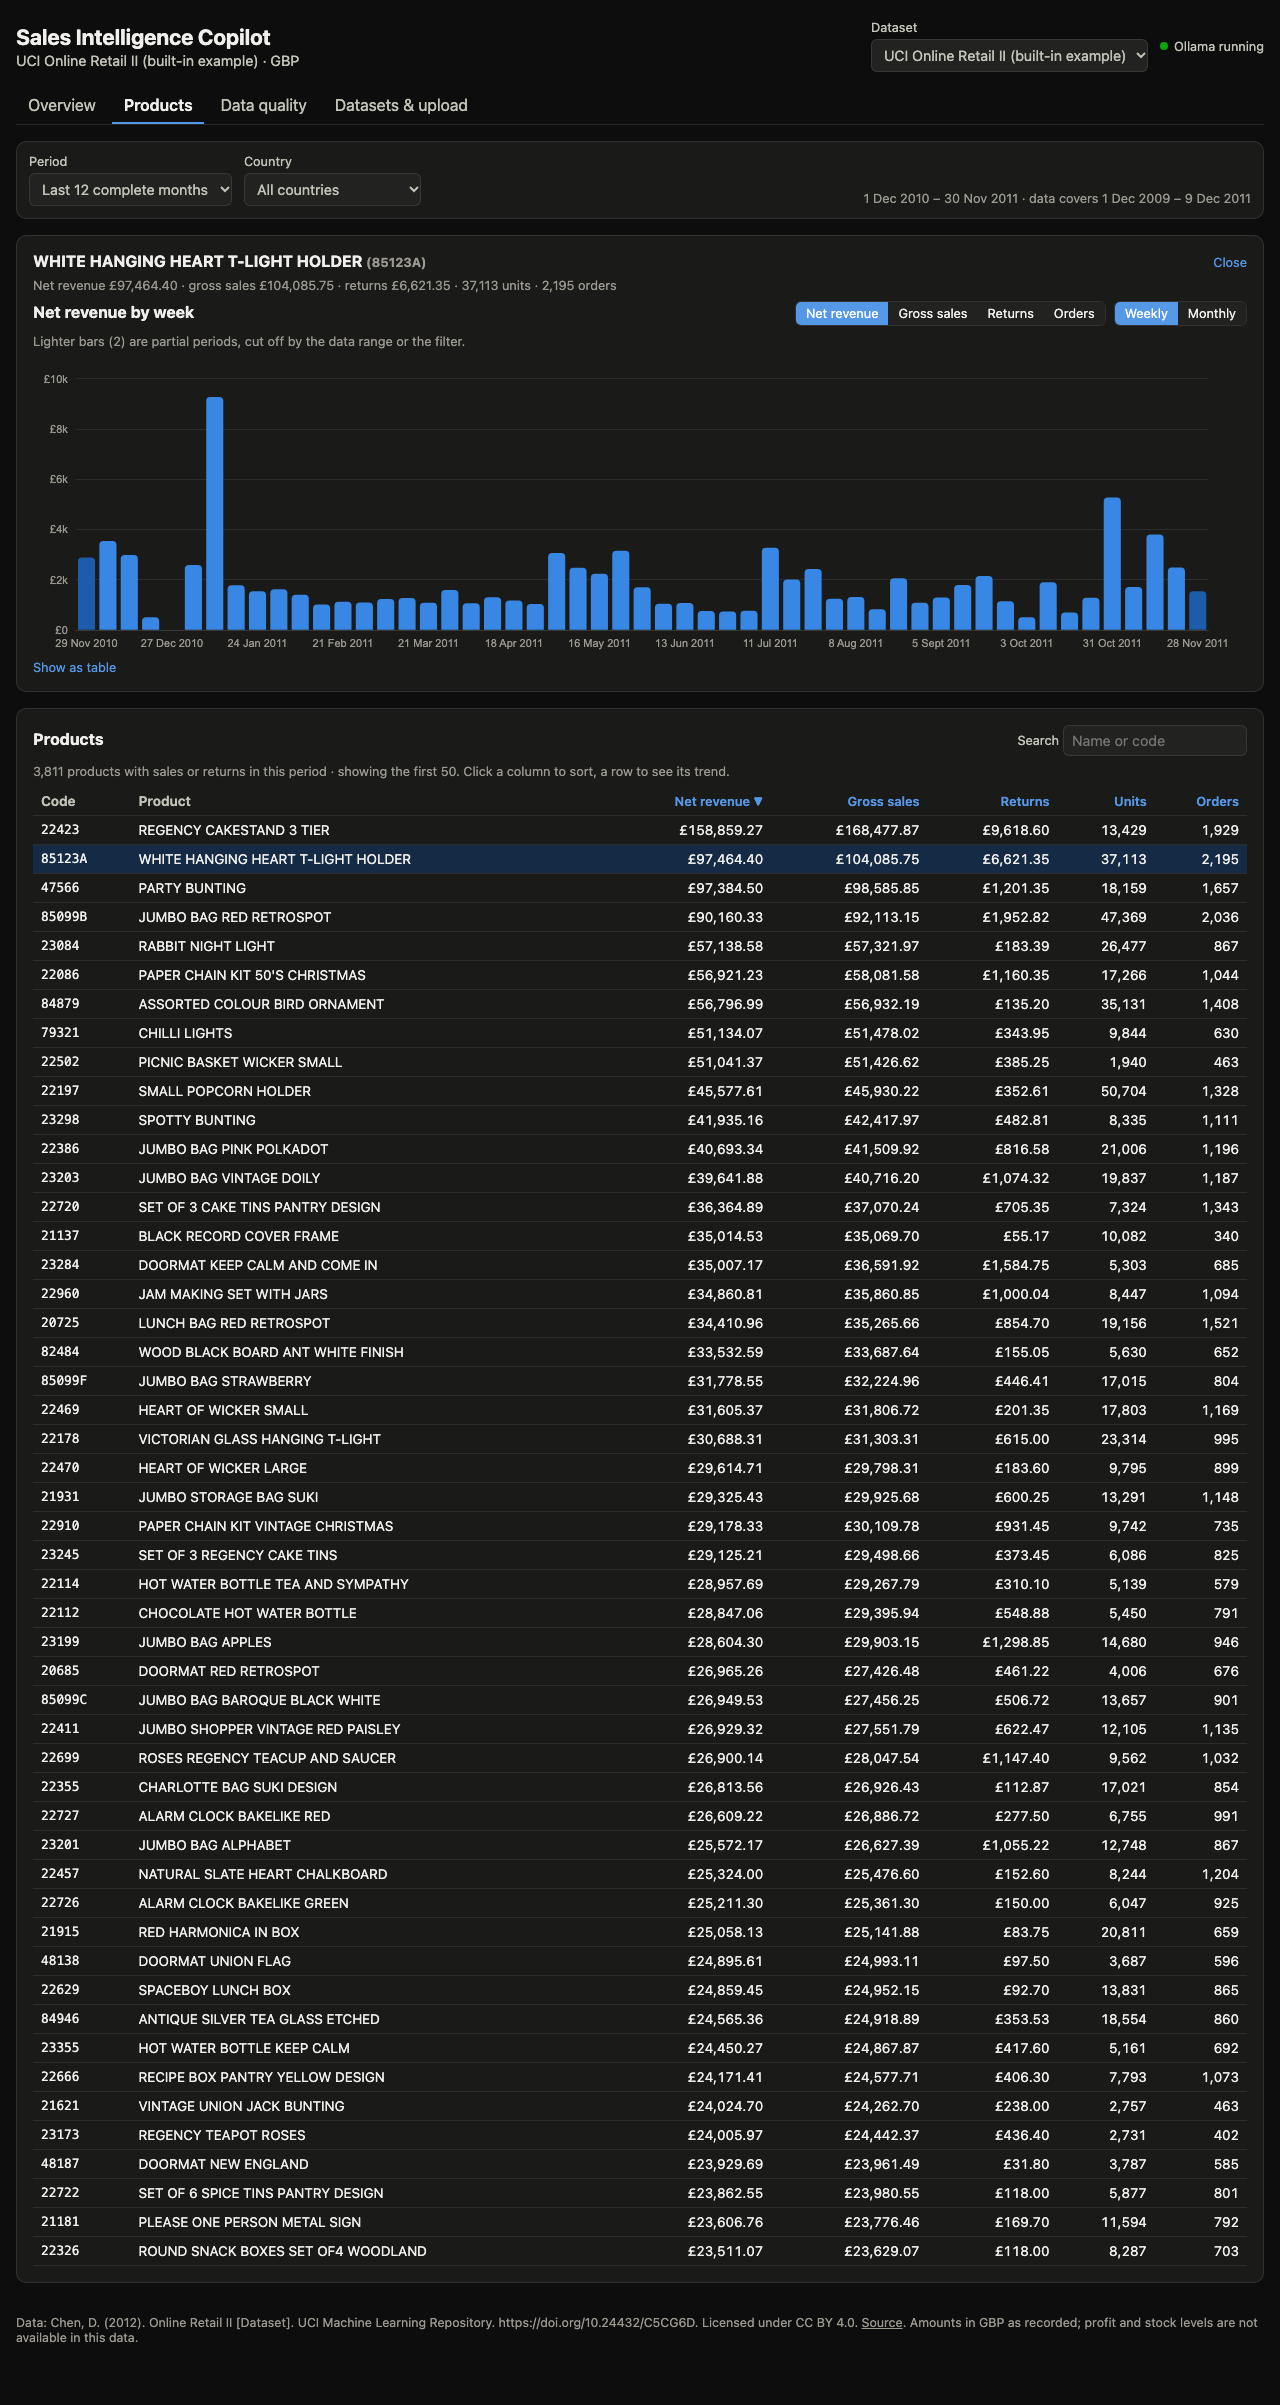
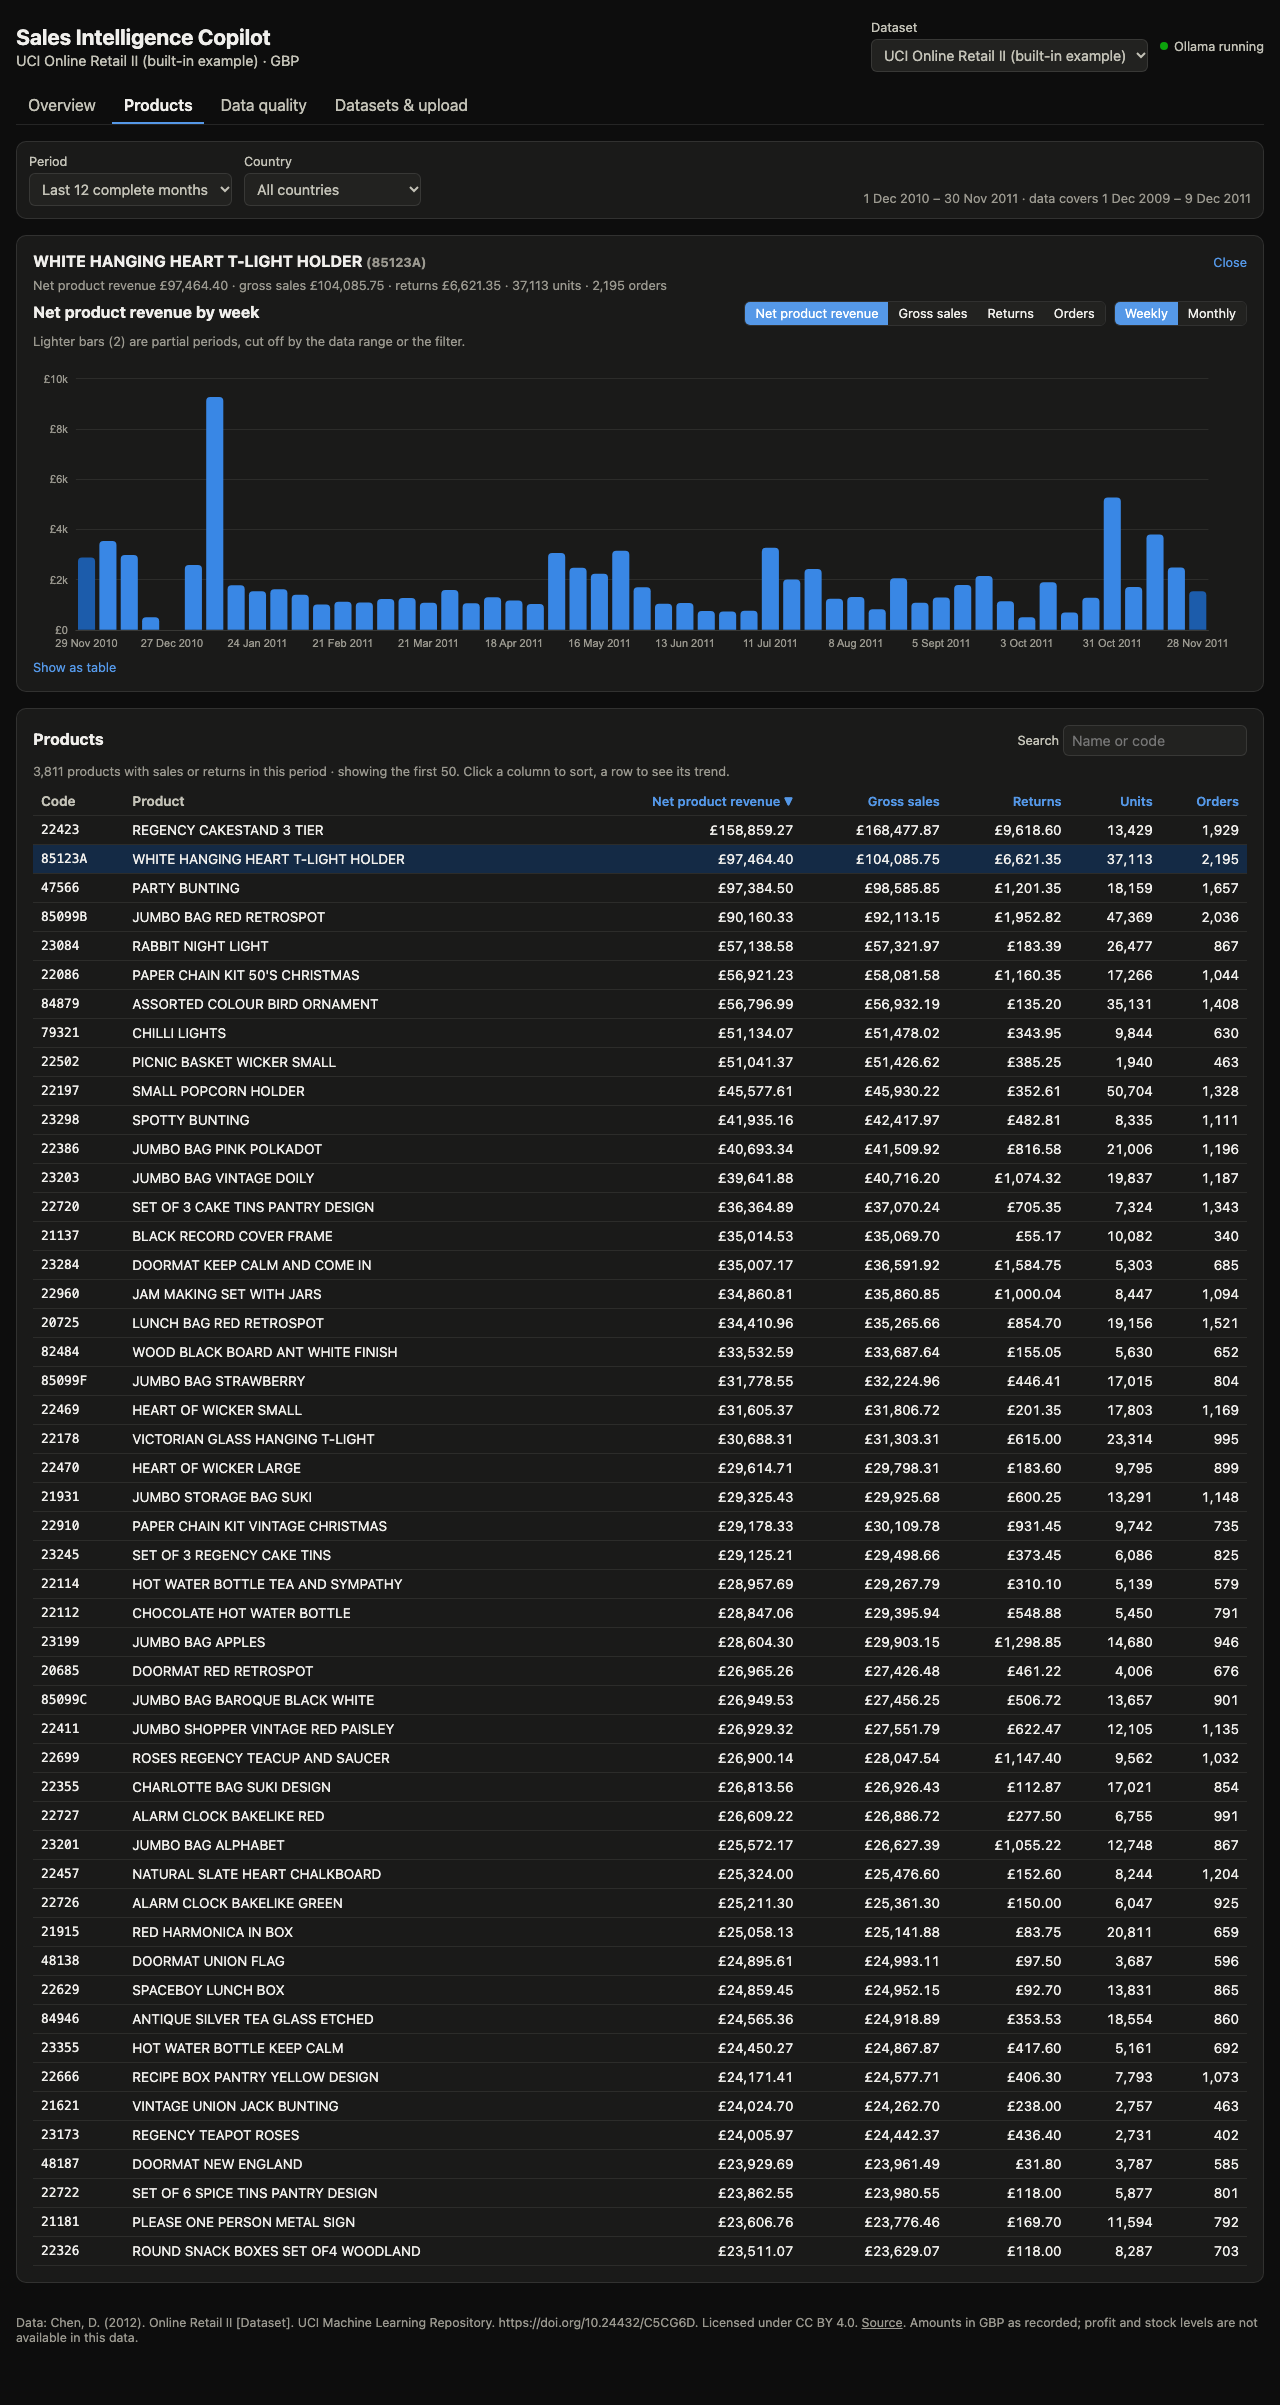
Label the agreed metric 'Net product revenue' everywhere
The dashboard, metric definition, docs and browser check said 'Net revenue'.
The calculation is unchanged (product sales minus product returns); the API
field remains net_revenue. Screenshots retaken.

diff --git a/frontend/src/pages/Overview.tsx b/frontend/src/pages/Overview.tsx
@@ -40,14 +40,14 @@ export default function Overview({ datasetId, query, currency, onOpenProduct }: 
       <div className="grid grid-2">
         <section className={`card ${products.loading ? 'loading' : ''}`}>
           <div className="card-header">
-            <h2>Top 10 products by net revenue</h2>
+            <h2>Top 10 products by net product revenue</h2>
           </div>
           <p className="card-sub">Click a bar to open the product.</p>
           {products.data && products.data.products.length > 0 ? (
             <HBarChart
               rows={products.data.products.map((p) => ({ label: p.product_name, value: p.net_revenue }))}
               currency={currency}
-              ariaLabel="Top 10 products by net revenue"
+              ariaLabel="Top 10 products by net product revenue"
               onSelect={(i) => onOpenProduct(products.data!.products[i].product_id)}
             />
           ) : (
@@ -57,14 +57,14 @@ export default function Overview({ datasetId, query, currency, onOpenProduct }: 
 
         <section className={`card ${countries.loading ? 'loading' : ''}`}>
           <div className="card-header">
-            <h2>Net revenue by country</h2>
+            <h2>Net product revenue by country</h2>
           </div>
           <p className="card-sub">Ignores the country filter so the whole picture stays visible.</p>
           {countries.data && countries.data.countries.length > 0 ? (
             <HBarChart
               rows={countries.data.countries.map((c) => ({ label: c.country, value: c.net_revenue }))}
               currency={currency}
-              ariaLabel="Net revenue by country"
+              ariaLabel="Net product revenue by country"
             />
           ) : (
             <p className="muted small">No sales in this period.</p>
@@ -74,11 +74,11 @@ export default function Overview({ datasetId, query, currency, onOpenProduct }: 
 
       <section className={`card ${other.loading ? 'loading' : ''}`} style={{ marginTop: 16 }}>
         <div className="card-header">
-          <h2>Other lines (not in product revenue)</h2>
+          <h2>Other lines (not in net product revenue)</h2>
         </div>
         <p className="card-sub">
           Shipping, fees, discounts, manual adjustments and similar lines are reported here instead of
-          being mixed into net revenue.
+          being mixed into net product revenue.
         </p>
         {other.data && other.data.lines.length > 0 ? (
           <div className="table-wrap">

diff --git a/frontend/src/pages/Products.tsx b/frontend/src/pages/Products.tsx
@@ -6,7 +6,7 @@ import { useApi } from '../hooks'
 
 type SortKey = 'net_revenue' | 'gross_sales' | 'returns' | 'units' | 'orders'
 const COLUMNS: { key: SortKey; label: string; money: boolean }[] = [
-  { key: 'net_revenue', label: 'Net revenue', money: true },
+  { key: 'net_revenue', label: 'Net product revenue', money: true },
   { key: 'gross_sales', label: 'Gross sales', money: true },
   { key: 'returns', label: 'Returns', money: true },
   { key: 'units', label: 'Units', money: false },
@@ -60,7 +60,7 @@ export default function Products({ datasetId, query, currency, productId, onSele
           </div>
           {summary.data && (
             <p className="card-sub">
-              Net revenue {moneyExact(summary.data.current.net_revenue, currency)} · gross sales{' '}
+              Net product revenue {moneyExact(summary.data.current.net_revenue, currency)} · gross sales{' '}
               {moneyExact(summary.data.current.gross_sales, currency)} · returns{' '}
               {moneyExact(summary.data.current.returns, currency)} · {number(summary.data.current.units)} units ·{' '}
               {number(summary.data.current.orders)} orders

diff --git a/frontend/src/components/TrendChart.tsx b/frontend/src/components/TrendChart.tsx
@@ -5,7 +5,7 @@ import Chart, { type Tokens } from './Chart'
 
 type Metric = 'net_revenue' | 'gross_sales' | 'returns' | 'orders'
 const METRIC_LABELS: Record<Metric, string> = {
-  net_revenue: 'Net revenue',
+  net_revenue: 'Net product revenue',
   gross_sales: 'Gross sales',
   returns: 'Returns',
   orders: 'Orders',
@@ -123,7 +123,7 @@ export default function TrendChart({ points, freq, currency, onFreqChange, title
             <thead>
               <tr>
                 <th>Period</th>
-                <th className="num">Net revenue</th>
+                <th className="num">Net product revenue</th>
                 <th className="num">Gross sales</th>
                 <th className="num">Returns</th>
                 <th className="num">Orders</th>

diff --git a/frontend/src/components/KpiTiles.tsx b/frontend/src/components/KpiTiles.tsx
@@ -10,7 +10,7 @@ type Tile = {
 }
 
 const TILES: Tile[] = [
-  { key: 'net_revenue', label: 'Net revenue', kind: 'money', upIsGood: true },
+  { key: 'net_revenue', label: 'Net product revenue', kind: 'money', upIsGood: true },
   { key: 'gross_sales', label: 'Gross sales', kind: 'money', upIsGood: true },
   { key: 'returns', label: 'Returns', kind: 'money', upIsGood: false },
   { key: 'orders', label: 'Orders', kind: 'count', upIsGood: true },

diff --git a/scripts/e2e_upload_check.py b/scripts/e2e_upload_check.py
@@ -22,7 +22,7 @@ CSV = """Order No,Order Date,SKU,Item,Qty,Price,Client,Country
 5003,not a date,MUG-1,Blue mug,1,4.50,K2,France
 R5004,2024-03-08,TOWEL-2,Tea towel,-2,2.25,K1,United Kingdom
 """
-# Net revenue = 18 + 22.50 + 9 - 4.50 = £45.00 (the undated row is excluded)
+# Net product revenue = 18 + 22.50 + 9 - 4.50 = £45.00 (the undated row is excluded)
 EXPECTED_NET = "£45"
 
 
@@ -56,9 +56,9 @@ def main() -> int:
 
         page.get_by_role("button", name="Import dataset").click()
         expect(page.get_by_role("tab", name="Overview")).to_have_attribute("aria-selected", "true")
-        net_tile = page.locator(".kpi").filter(has_text="Net revenue").locator(".kpi-value")
+        net_tile = page.locator(".kpi").filter(has_text="Net product revenue").locator(".kpi-value")
         expect(net_tile).to_have_text(EXPECTED_NET)
-        print(f"imported and opened: net revenue tile shows {EXPECTED_NET}: OK")
+        print(f"imported and opened: net product revenue tile shows {EXPECTED_NET}: OK")
 
         page.get_by_role("tab", name="Datasets & upload").click()
         page.get_by_role("button", name="Delete").click()

diff --git a/backend/sic/metrics/queries.py b/backend/sic/metrics/queries.py
@@ -103,7 +103,7 @@ def summary(con: duckdb.DuckDBPyConnection, filters: Filters) -> dict:
 
 
 def timeseries(con: duckdb.DuckDBPyConnection, filters: Filters, freq: str) -> list[dict]:
-    """Net revenue, gross sales, returns and orders per week or month.
+    """Net product revenue, gross sales, returns and orders per week or month.
 
     Empty periods (e.g. Christmas closures) appear with zeros. A period is marked
     partial if it is cut off by the filter range or by the data's coverage.

diff --git a/backend/sic/metrics/definitions.py b/backend/sic/metrics/definitions.py
@@ -13,7 +13,7 @@ METRICS = {
         ),
     },
     "net_revenue": {
-        "label": "Net revenue",
+        "label": "Net product revenue",
         "definition": (
             "Gross sales minus returns, for products only. Shipping, discounts, fees, "
             "manual adjustments, samples, gift vouchers and bad-debt entries are reported "

diff --git a/README.md b/README.md
@@ -13,10 +13,10 @@ A local sales analytics application: an interactive dashboard, a forecasting mod
   - Products: searchable and sortable product table, with a trend chart for each product.
   - Data quality: every cleaning rule with row counts, values and evidence.
   - Datasets & upload: upload your own sales CSV through a template, column mapping, validation messages and a preview. Each upload is stored separately.
-- **Definitions** used everywhere: net revenue = product sales − product returns. Shipping, fees, discounts and adjustments are reported separately. Profit and stock are not available in this data, and the app says so.
+- **Definitions** used everywhere: **net product revenue** = product sales − product returns. Shipping, fees, discounts and adjustments are reported separately. Profit and stock are not available in this data, and the app says so.
 
 ## Planned
-- Weekly net-revenue forecasting that compares simple baselines with machine-learning models using time-based backtests (Milestone 3).
+- Weekly net-product-revenue forecasting that compares simple baselines with machine-learning models using time-based backtests (Milestone 3).
 - A tool-using assistant powered by **Qwen3 4B Instruct running locally in Ollama** (`qwen3:4b-instruct-2507-q4_K_M`). The model chooses tools and the application code does every calculation (Milestone 4).
 
 ## Architecture

diff --git a/docs/data_cleaning.md b/docs/data_cleaning.md
@@ -116,13 +116,13 @@ These apply everywhere: dashboard, assistant (Milestone 4) and reports.
 |---|---|
 | Gross sales | Σ quantity × unit price over product-sale lines |
 | Returns | Value of product-return lines, shown as a positive amount |
-| Net revenue | Gross sales − returns (**products only**; **owner decision**) |
+| Net product revenue | Gross sales − returns (**products only**; **owner decision**) |
 | Orders | Distinct invoices with at least one product-sale line |
 | Units sold | Σ quantity over product-sale lines |
 | Average order value | Gross sales ÷ orders |
 | Identified customers | Distinct customer IDs on product-sale lines |
 
-- **Reported separately, never mixed into net revenue:** shipping, fees and commission, discounts, manual adjustments, samples, gift vouchers, test lines, bad-debt adjustments.
+- **Reported separately, never mixed into net product revenue:** shipping, fees and commission, discounts, manual adjustments, samples, gift vouchers, test lines, bad-debt adjustments.
 - **Not available:** profit, margin and stock availability. The data has no cost or inventory information.
 
 ## 4. Uploaded CSVs
